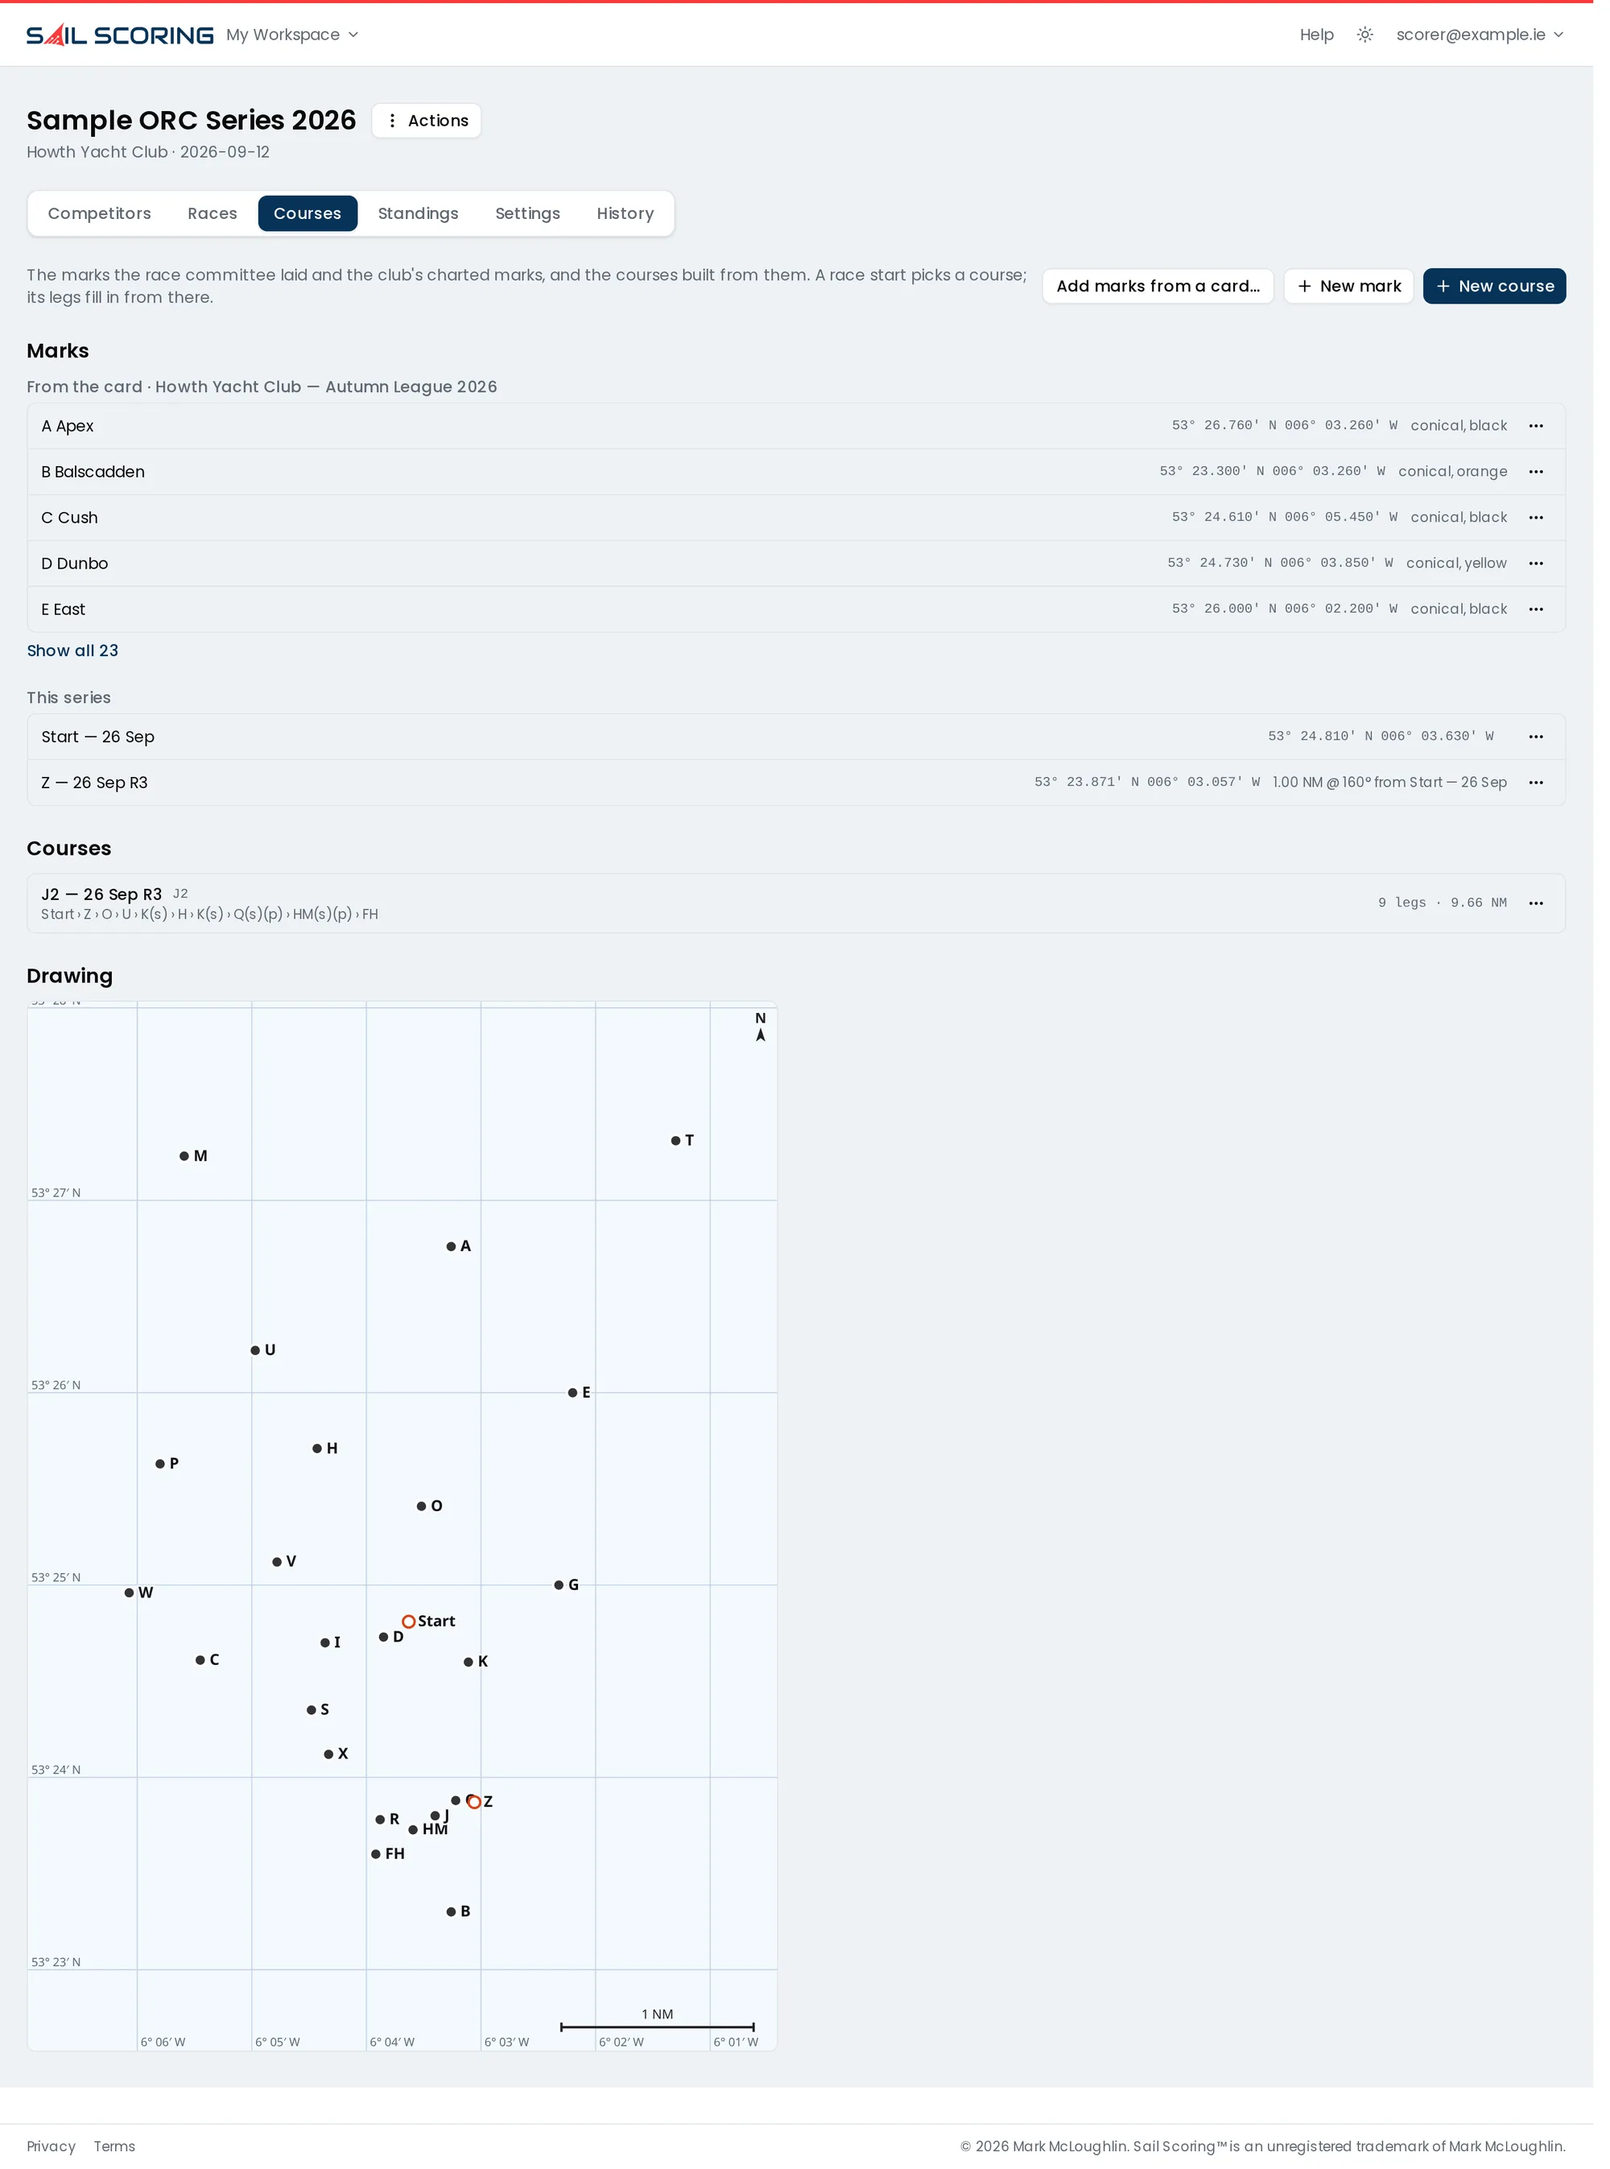
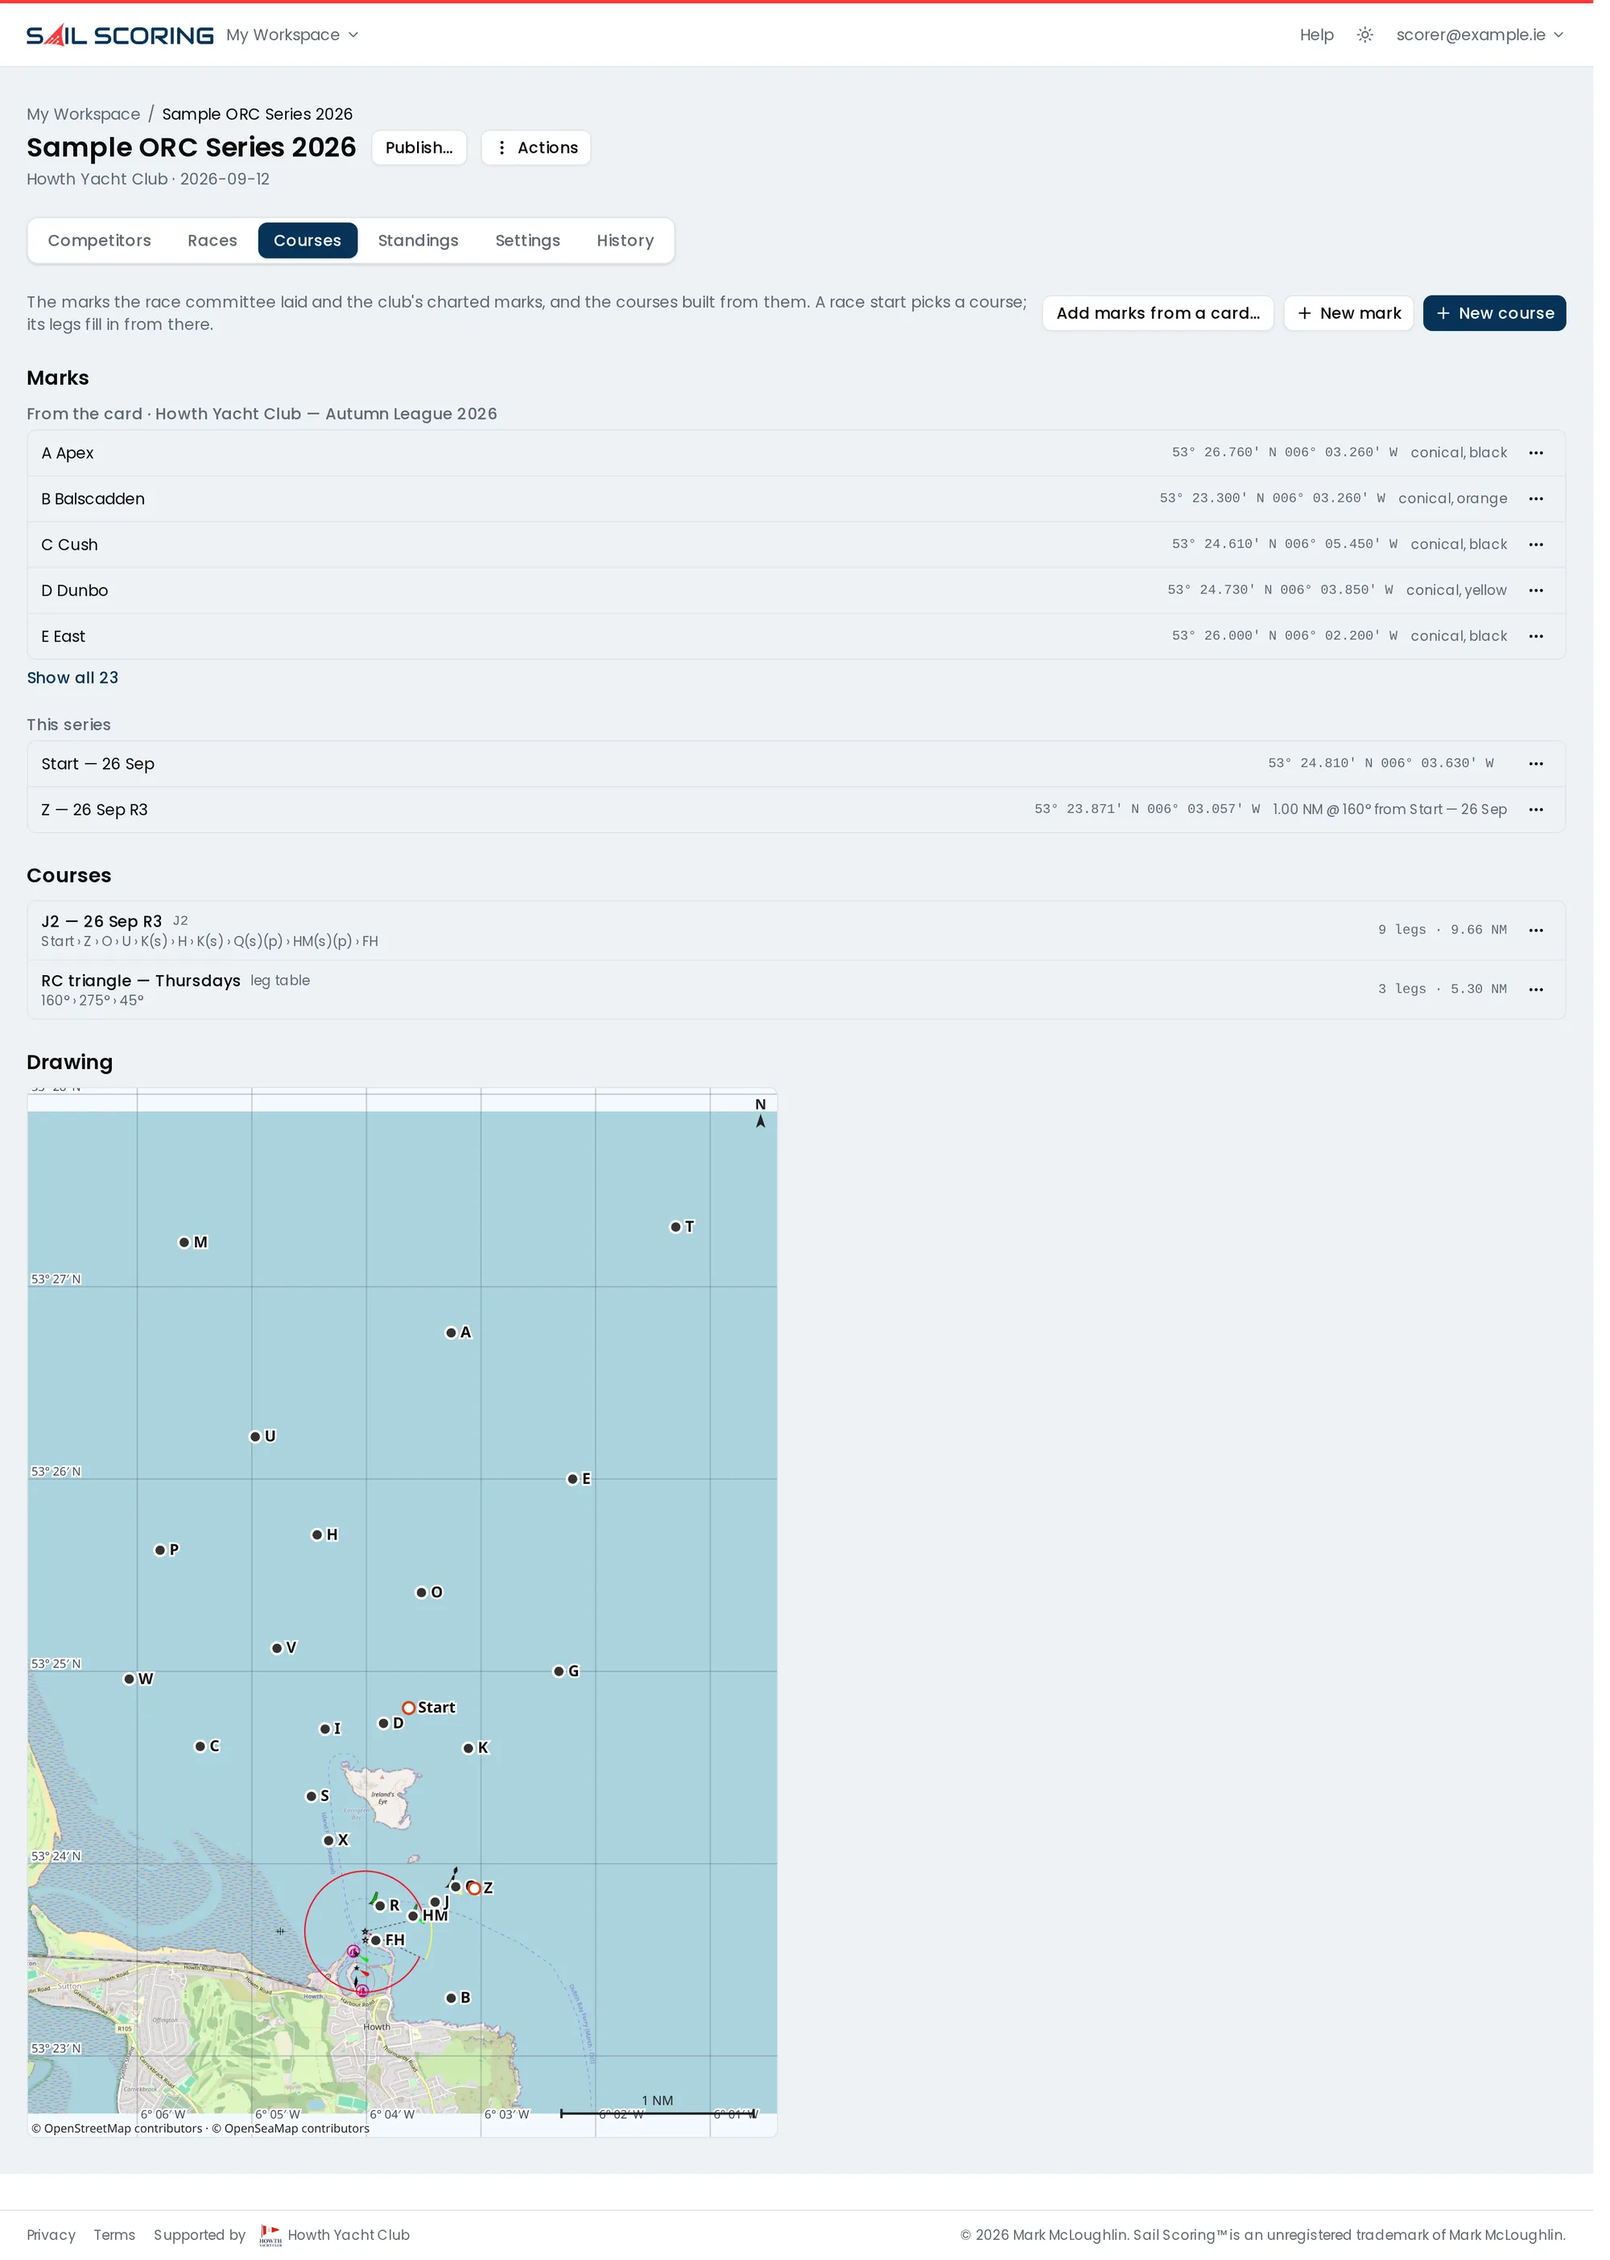
The course drawing is on the club's own chart
Each course-cards data set ships a chart of its water captured from
OpenStreetMap and OpenSeaMap, and the app now draws a course on it wherever
it draws one — in the builder and inside the published page. The features
entry and its shot say so.

diff --git a/app/features/page.tsx b/app/features/page.tsx
@@ -466,11 +466,11 @@ const groups: Group[] = [
       {
         id: "course-builder",
         title: "Courses from the card, not the calculator",
-        body: "Build an ORC constructed course the way the race committee describes it: the club's charted marks come straight from its course card, the line and the laid windward mark go in as coordinates or as a bearing and distance off the line, and a course is a number on the card. Or, when the committee boat hands over legs and no positions — so far, on this bearing, twelve times over — paste that table in and it is a course in its own right, saved once and picked by every start that sails it. A race start picks the course and its legs fill in at the day's wind; every dialog draws the course as you type, so a dropped digit shows before it scores, and the published page carries the drawing. Put the measured wind speed on each leg too and the race can be scored at the wind that actually blew, rather than at one worked back out of the finish times.",
+        body: "Build an ORC constructed course the way the race committee describes it: the club's charted marks come straight from its course card, the line and the laid windward mark go in as coordinates or as a bearing and distance off the line, and a course is a number on the card. Or, when the committee boat hands over legs and no positions — so far, on this bearing, twelve times over — paste that table in and it is a course in its own right, saved once and picked by every start that sails it. A race start picks the course and its legs fill in at the day's wind; every dialog draws the course as you type, so a dropped digit shows before it scores, and the published page carries the drawing. The drawing is on your own water, not a grid: each club's marks come with a chart of the harbour taken from OpenStreetMap and OpenSeaMap, and the course is laid over it wherever it is shown — with the chart inside the published page, so a competitor's phone loads the results and has the picture already. Put the measured wind speed on each leg too and the race can be scored at the wind that actually blew, rather than at one worked back out of the finish times.",
         note: ON_REQUEST_NOTE,
         shot: {
           src: "/screenshots/features/course-builder.webp",
-          alt: "The Courses tab: marks from the club's card and the laid ones, the course built from card J2, and the drawing of them",
+          alt: "The Courses tab: marks from the club's card and the laid ones, the course built from card J2, and the drawing of them on the club's chart",
         },
       },
       {
